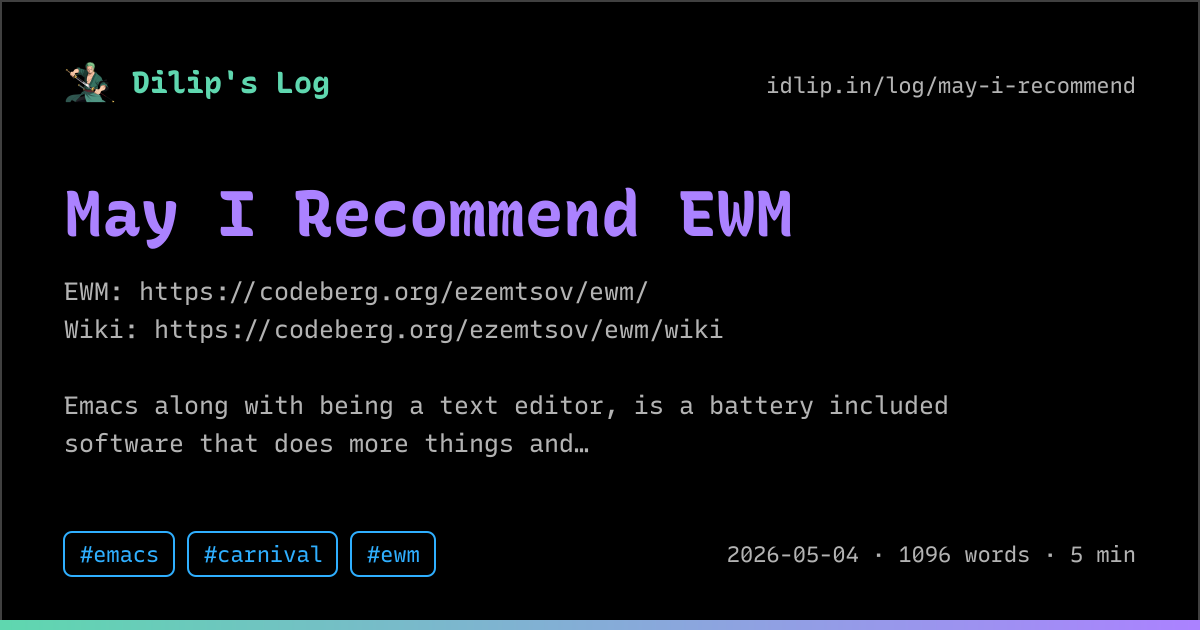
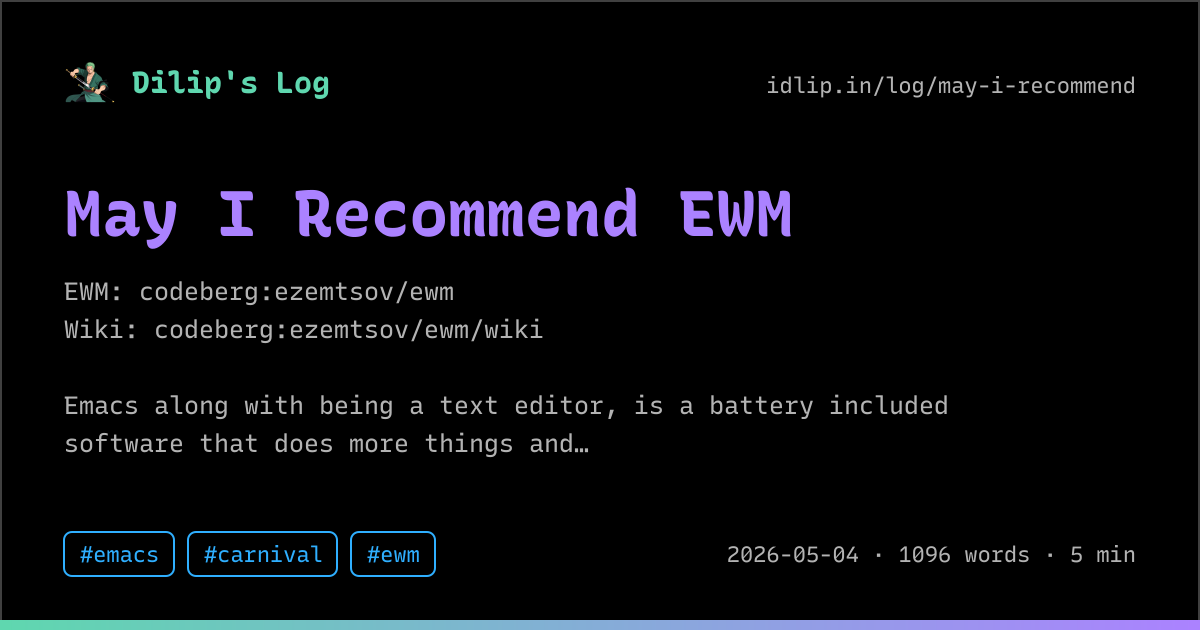
add og image for pose page
* since it gets more content often now

Changed region(s): [[0.1233, 0.5127, 0.6167, 0.5429], [0.1233, 0.4524, 0.555, 0.4825]]

diff --git a/assets/css/theme.css b/assets/css/theme.css
@@ -603,6 +603,8 @@
       margin: 0;
       padding-block: 0.6em;
       border-block-end: 1px solid var(--border);
+      /* Lets a long URL wrap; a flex child never shrinks below its longest word otherwise. */
+      overflow-wrap: anywhere;
     }
     & time {
       font-variant-numeric: tabular-nums;
@@ -678,25 +680,33 @@
       opacity: 0;
     }
   }
-  main:has(input[name="list-view"][value="grid"]:checked) .list {
-    display: grid;
-    grid-template-columns: repeat(auto-fill, minmax(min(15rem, 100%), 1fr));
-    gap: var(--gap);
-    /* Cards flow as blocks: flex children sized to their content would spill long descriptions and URLs. */
-    & > li {
-      display: block;
-      min-inline-size: 0;
-      overflow-wrap: anywhere;
-      padding: 0.75em 1em;
-      & > time,
-      & > small {
+  /* Grid needs room for two cards; on a narrow screen every list is a list and the toggle hides. */
+  @media (width < 40rem) {
+    .views {
+      display: none;
+    }
+  }
+  @media (width >= 40rem) {
+    main:has(input[name="list-view"][value="grid"]:checked) .list {
+      display: grid;
+      grid-template-columns: repeat(auto-fill, minmax(min(15rem, 100%), 1fr));
+      gap: var(--gap);
+      /* Cards flow as blocks: flex children sized to their content would spill long descriptions and URLs. */
+      & > li {
         display: block;
+        min-inline-size: 0;
+        overflow-wrap: anywhere;
+        padding: 0.75em 1em;
+        & > time,
+        & > small {
+          display: block;
+        }
+        & > small {
+          margin-block-start: 0.4em;
+        }
+        border: 1px solid var(--border);
+        border-radius: var(--radius);
       }
-      & > small {
-        margin-block-start: 0.4em;
-      }
-      border: 1px solid var(--border);
-      border-radius: var(--radius);
     }
   }
 
@@ -784,13 +794,27 @@
       color: var(--background);
       font-weight: bold;
     }
-    & [data-day="1"] { --day-color: var(--day-1); }
-    & [data-day="2"] { --day-color: var(--day-2); }
-    & [data-day="3"] { --day-color: var(--day-3); }
-    & [data-day="4"] { --day-color: var(--day-4); }
-    & [data-day="5"] { --day-color: var(--day-5); }
-    & [data-day="6"] { --day-color: var(--day-6); }
-    & [data-day="7"] { --day-color: var(--day-7); }
+    & [data-day="1"] {
+      --day-color: var(--day-1);
+    }
+    & [data-day="2"] {
+      --day-color: var(--day-2);
+    }
+    & [data-day="3"] {
+      --day-color: var(--day-3);
+    }
+    & [data-day="4"] {
+      --day-color: var(--day-4);
+    }
+    & [data-day="5"] {
+      --day-color: var(--day-5);
+    }
+    & [data-day="6"] {
+      --day-color: var(--day-6);
+    }
+    & [data-day="7"] {
+      --day-color: var(--day-7);
+    }
   }
 
   #pose-entries article:has(:target) {
